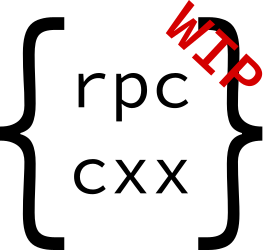
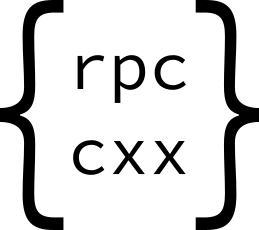
Initial release 0.1.0

diff --git a/CHANGELOG.md b/CHANGELOG.md
@@ -5,8 +5,9 @@ All notable changes to this project will be documented in this file.
 The format is based on [Keep a Changelog](https://keepachangelog.com/en/1.0.0/),
 and this project adheres to [Semantic Versioning](https://semver.org/spec/v2.0.0.html).
 
-## \[Unreleased]
+## [0.1.0] - 2019-07-02
 
 -   Initial implementation of 1.0 and 2.0 server
 -   Initial implementation of 1.0 and 2.0 client
 -   Test suite for server and client
+-   Example Application with HTTP client and server connectors

diff --git a/README.md b/README.md
@@ -1,5 +1,3 @@
-**THIS IS A WORK IN PROGRESS PROJECT**
-
 # json-rpc-cxx
 
 
@@ -53,7 +51,7 @@ This framework is licensed under [MIT](LICENSE).
 ### Dependencies
 
 -   [nlohmann's JSON for modern C++](https://github.com/nlohmann/json) is licensed under MIT.
--   [Catch](https://github.com/catchorg/Catch2) is licensed under BSL-1.0.
+-   Optional: [Catch](https://github.com/catchorg/Catch2) is licensed under BSL-1.0.
 
 ## Developer information
 
